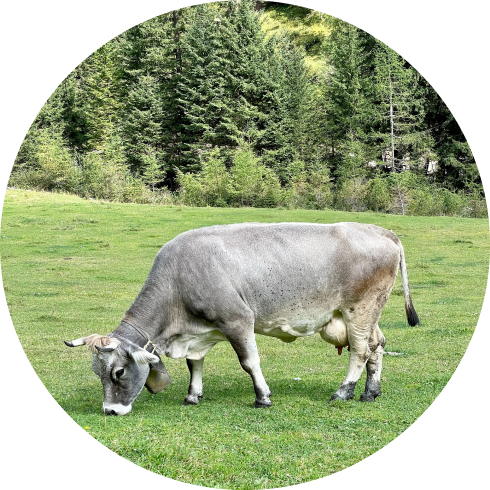
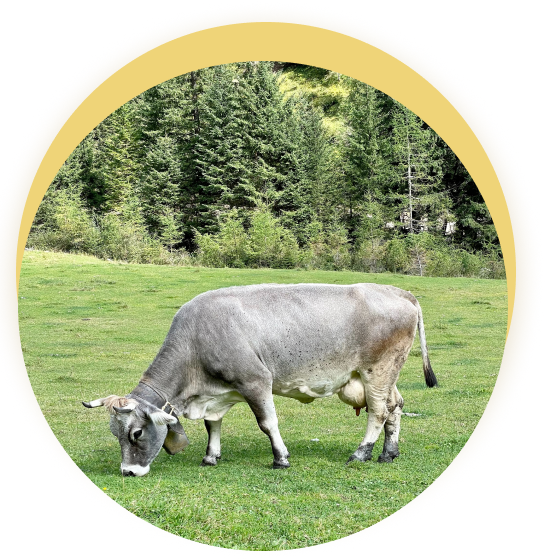
section about + ingred modal

diff --git a/src/sass/layout/_about.scss b/src/sass/layout/_about.scss
@@ -36,7 +36,6 @@
     font-weight: 800;
     font-size: 22px;
     line-height: 1.2;
-
     text-transform: uppercase;
 
     color: var(--copyright-text-color);
@@ -53,9 +52,9 @@
     font-weight: 400;
     font-size: 34px;
     line-height: 1.3;
-
     letter-spacing: 0.06em;
     text-transform: uppercase;
+    transition: transform 300ms cubic-bezier(0.4, 0, 0.2, 1);
 
     color: var(--copyright-text-color);
 
@@ -66,6 +65,11 @@
     @media screen and (min-width: 1200px) {
         margin-bottom: 82px;
         font-size: 36px;
+    }
+
+    &:hover,
+    &:focus {
+        transform: scale(1.18);
     }
 }
 
@@ -78,7 +82,7 @@
 
 .about-content__overlay {
     margin-bottom: 62px;
-    position: relative;
+    // position: relative;
 
     @media screen and (min-width: 768px) {
        margin-right: 32px;
@@ -89,34 +93,8 @@
     }
 }
 
-.about-content__circle {
-    margin-left: auto;
-    margin-right: auto;
-    display: block;
-    width: 278px;
-    height: 278px;
-    border-radius: 50%;
-
-    background: linear-gradient(0deg, rgba(248, 210, 78, 0.7), rgba(248, 210, 78, 0.7)), #D9D9D9;
-    box-shadow: 0px 4.48583px 16.8218px rgba(153, 114, 23, 0.25);
-
-    @media screen and (min-width: 768px) {
-        width: 334px;
-        height: 330px;
-    }
-
-    @media screen and (min-width: 1200px) {
-        width: 490px;
-        height: 490px;
-    }
-}
-
 .about-content__img {
-    position: absolute;
-    top: 0;
-    left: 0;
-    z-index: 1;
-    transform: translate(0, 20px);
+    margin: 0 auto;
     width: 278px;
     height: 278px;
 
@@ -136,10 +114,6 @@
         text-align: left;
     }
 }
-
-// .about-content__list {
-   
-// }
 
 .about-content__item {
     min-width: 220px;

diff --git a/src/sass/components/_ingredients-modal.scss b/src/sass/components/_ingredients-modal.scss
@@ -141,12 +141,29 @@
   color: var(--secondary-text-color);
 
   @media screen and (min-width: 768px) {
-    padding: 61px 15px 14px;
+    padding: 61px 15px 14px 15px;
+    font-size: 12px;
+    line-height: 1.3;
   }
 }
 
 .ingredients-list__composition-g {
   position: absolute;
+  top: 0;
+  left: 10px;
+
+  font-weight: 500;
+  font-size: 12px;
+  line-height: 2.3;
+
+  color: var(--secondary-text-color);
+
+  @media screen and (min-width: 768px) {
+    top: 11px;
+    left: 14px;
+    font-size: 12px;
+    line-height: 1.3;
+  }
 }
 
 // Ingredients table

diff --git a/src/partials/about.html b/src/partials/about.html
@@ -2,13 +2,12 @@
   <div class="container">
     <span class="about__top"></span>
     <p class="about__label">tradition and love</p>
-    <h2 class="about__title animate__animated animate__rubberBand infin">
+    <h2 class="about__title">
       how it’s made?
     </h2>
 
     <div class="about-content">
       <div class="about-content__overlay">
-        <span class="about-content__circle"></span>
         <picture>
           <source
             srcset="
